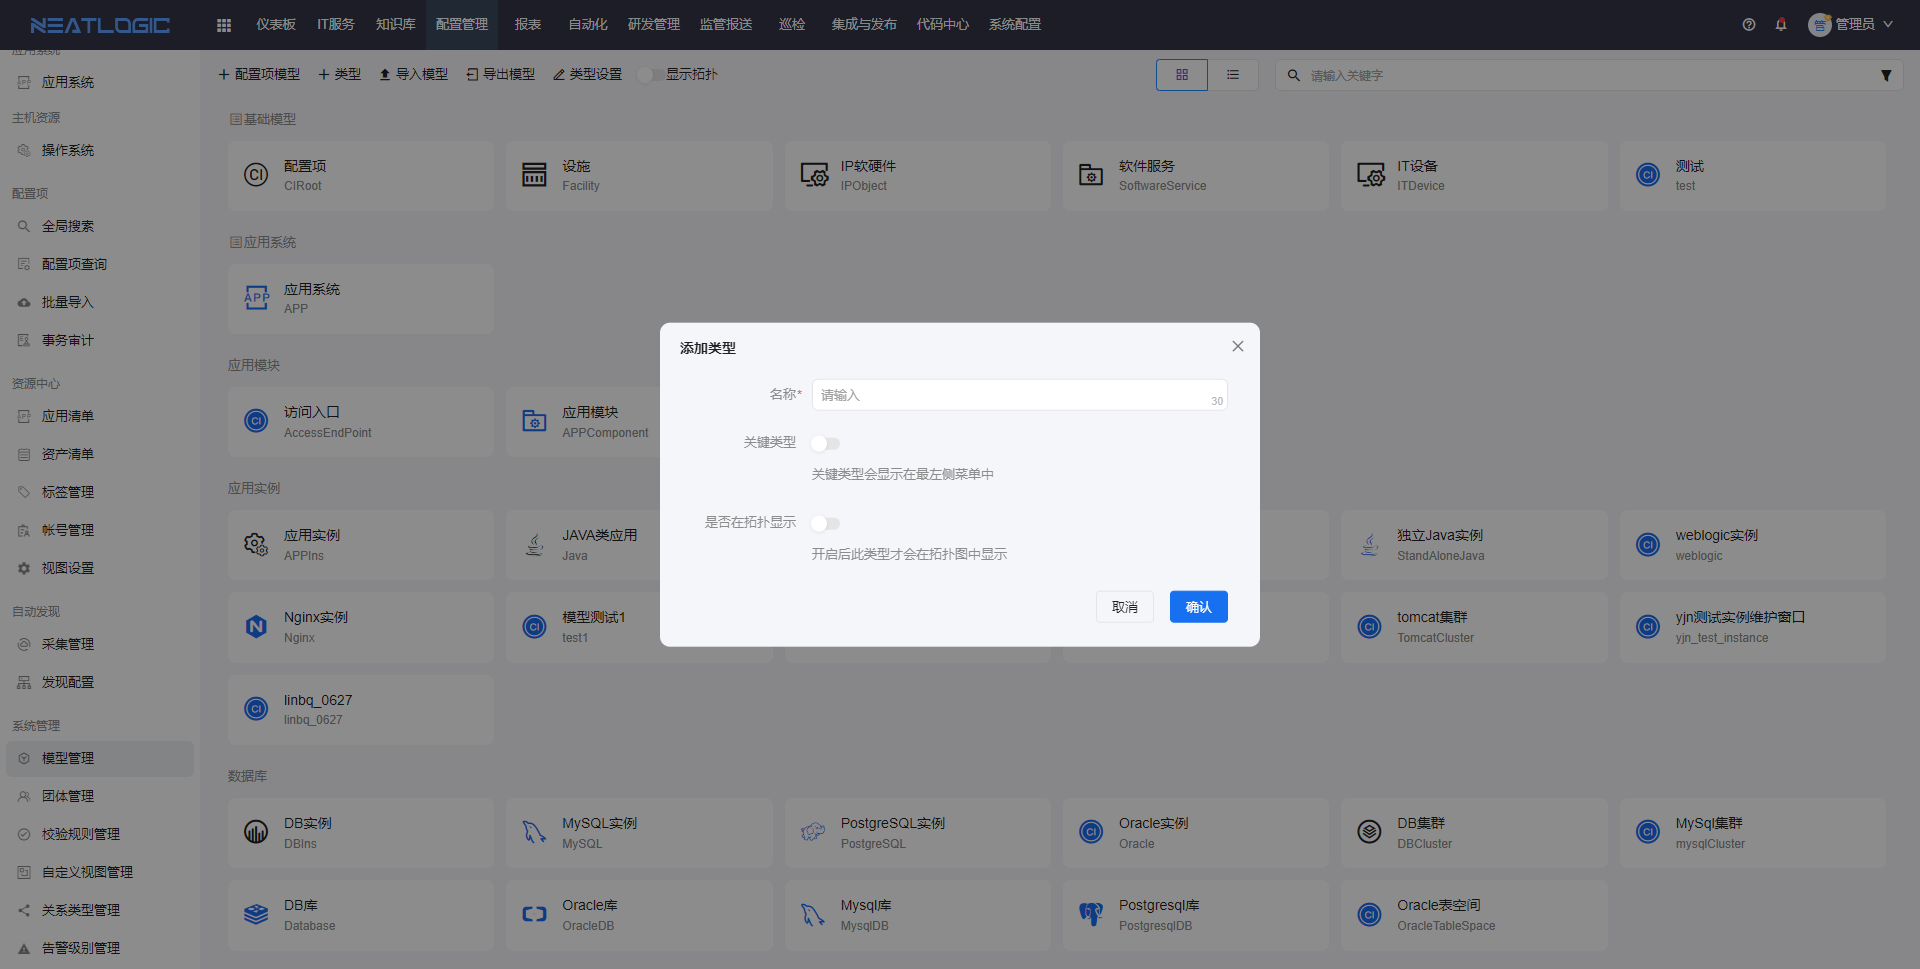
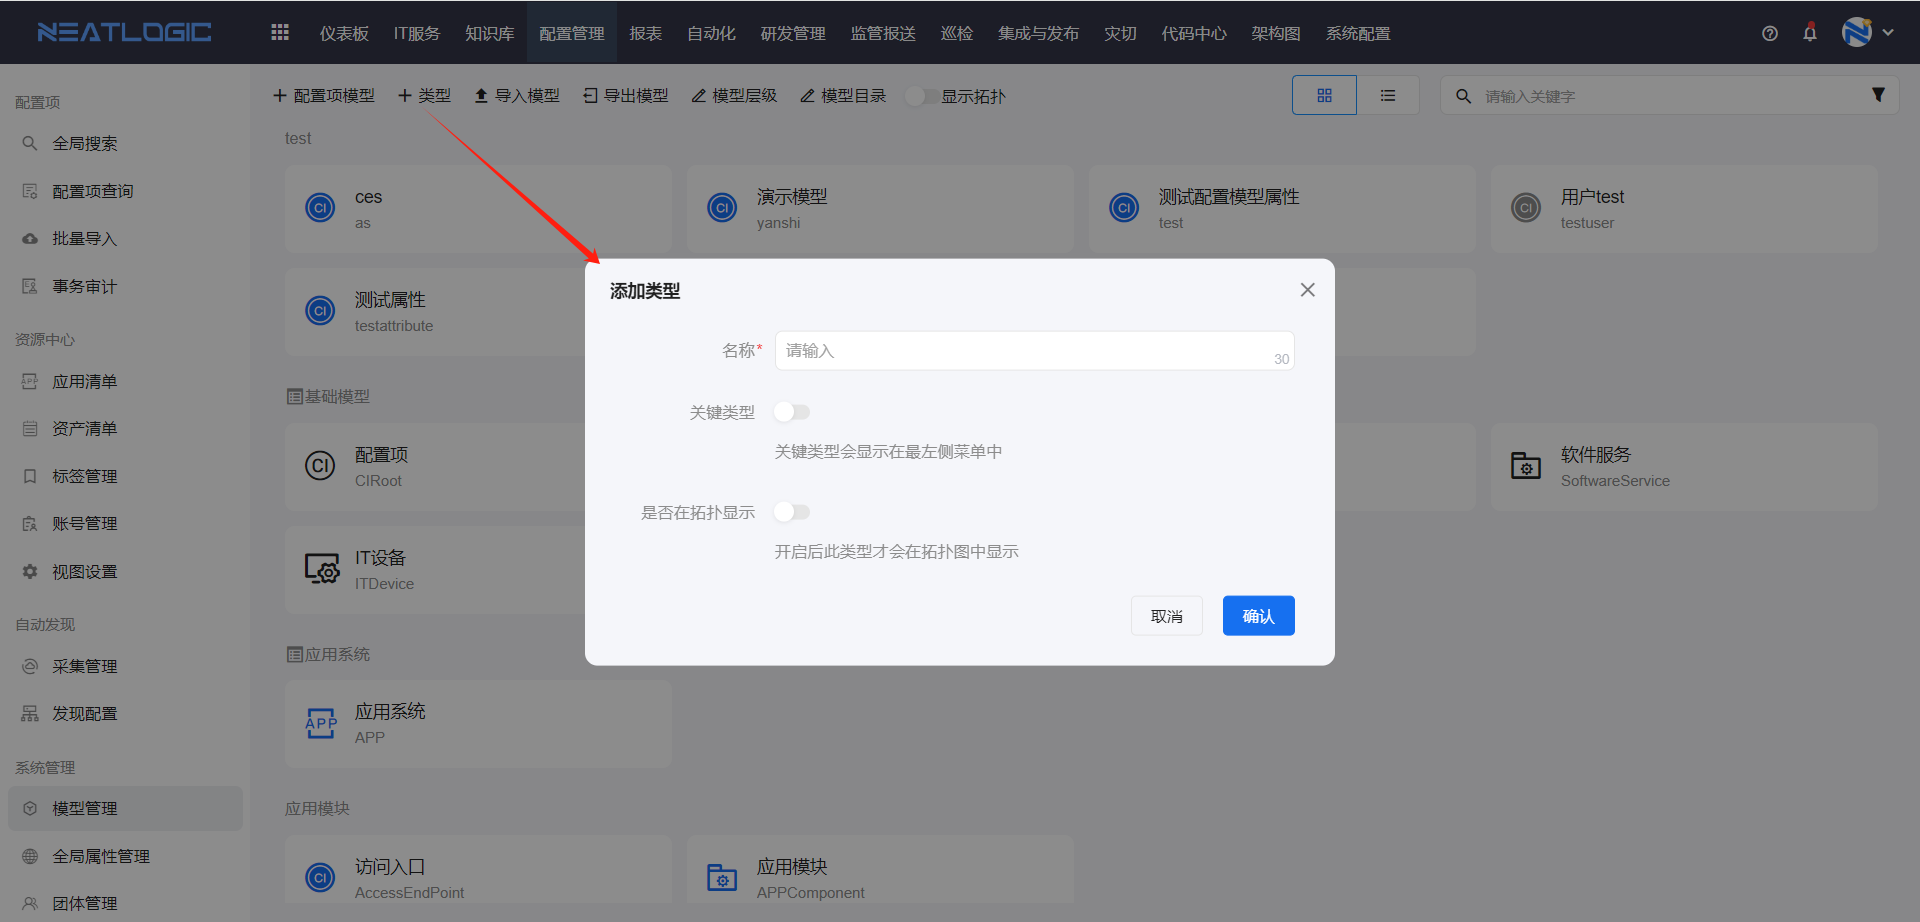
#[1050523619262464]在线帮助文档-更新CMDB变更需求 http://192.168.0.96:8090/demo/rdm.html#/story-detail/939050947543040/939050947543042/1050523619262464

diff --git a/src/main/resources/neatlogic/resources/documentonline/zh/3.配置管理/模型管理/模型管理.md b/src/main/resources/neatlogic/resources/documentonline/zh/3.配置管理/模型管理/模型管理.md
@@ -7,30 +7,44 @@
 * 普通模型：代表具体的实体，可以录入配置项，就是上面提到的java实例等模型。普通模型也能被继承。
 * 名称属性：在拓扑展示和关系展示时，作为配置项名称的属性值，名称属性只能选一个。
 * 唯一规则：选择一个或多个属性作为配置项的唯一性校验的规则。
-## 模型类型
+
+## 模型层级
 访问位置：配置管理>系统管理>模型管理
 <br>
-模型类型相关功能包括添加、类型设置和删除。引用模型类型的配置项模型为0时，模型类型隐藏。
+模型层级相关功能包括添加、管理模型层级。引用模型类型的配置项模型为0时，模型类型隐藏。
 <br>
 
 ### 添加类型
 ![](images/模型管理_类型_添加类型.png)
 
-### 类型设置
+### 管理模型层级
 设置类型名称、排序、关键类型、在拓扑中显示和删除类型。关联模型数量为零的类型才允许删除，且在模型列表中隐藏。
 ![](images/模型管理_类型_类型设置.gif)
 关键类型：重点显示在左侧导航目录中的类型，方便用户快速找到类型及其下的关键模型。当关键类型下无关键模型时，导航列表隐藏关键类型。
 ![](images/模型管理_类型_关键类型.png)
 在拓扑中显示：显示拓扑图时，显示类型中所有的配置项模型。
 ![](images/模型管理_类型_在拓扑中显示.png)
+模型编辑页和配置项列表页面的模型列表支持按模型层级展示，模型层级只有一级。
+![](images/模型管理_模型层级应用.png)
+
+## 模型目录
+模型编辑页和配置项列表页面的模型列表支持按模型目录展示，模型目录完全由管理员自定义，支持多层级的结构。
+![](images/模型管理_模型目录_应用.png)
+
+### 模型目录管理
+入口：模型管理-模型目录
+![](images/模型管理_模型目录管理.png)
+模型目录管理列表支持添加根目录、添加下级目录、编辑和删除目录，已被模型关联的目录禁止删除。
+![](images/模型管理_模型目录管理操作.png)
 
 ## 配置项模型
 配置项模型可手动添加，或通过导入添加。
 添加配置项模型主要包括两个步骤，首先是填写模型基础信息，然后是根据需求添加模型的属性和关系。
 
 ### 模型基本信息
-模型基本信息有类型、图标、唯一标识、名称、继承、抽象模型、虚拟模型等设置。
+模型基本信息有类型、模型目录、图标、唯一标识、名称、继承、抽象模型、虚拟模型等设置。
 ![](images/模型管理_模型_添加模型.gif)
+模型有数据时，继承下拉框隐藏，无法修改继承模型对象。
 
 ### 模型属性
 模型的属性类型总共有十种，分别是文本框、数字、文本域、枚举型、下拉框、日期、时间、日期时间、时间范围、密码、附件、表格、表达式和超链接。其中下拉框、表格和表达式比较特殊，存在引用关系。
@@ -50,7 +64,7 @@
 ![](images/模型管理_属性_校验.png)
 
 ### 全局属性
- 模型的全局属性数据来自[全局属性管理]()，模型中不能修改全局属性。如果全局属性中没有数据，所有模型都会隐藏全局属性页签。
+ 模型的全局属性数据来自[全局属性管理](../系统管理/全局属性管理.md)，模型中不能修改全局属性。如果全局属性中没有数据，所有模型都会隐藏全局属性页签。
  ![](images/全局属性.png)
  如果不想使用全局属性，可以在显示编辑设置中设置不显示和不允许编辑。
  ![](images/全局属性显示设置.png)

diff --git a/src/main/resources/neatlogic/resources/documentonline/zh/100.系统配置/用户和权限.md b/src/main/resources/neatlogic/resources/documentonline/zh/100.系统配置/用户和权限.md
@@ -22,6 +22,14 @@
 ![](README_IMAGES/user/token_update.gif)
 
 ## 角色管理
+角色的基本信息包括ID、角色名和环境。
+
+环境：登录认证的请求需要携带Key为Env的Header，如果Env Header值等于当前值或当前值为空则该角色生效，否则不生效。
+<br>
+应用场景：不同环境共用同一个数据库时，控制一个用户在不同环境中的权限差异。
+<br>
+例如：当前环境是UAT，配置了角色“ROLE-UAT”的环境是UAT，角色“ROLE-UAT”关联了用户“TEST-UAT”,用户“TEST-UAT”登录UAT环境时，这个角色传递给用户的权限可以生效。若用户“TEST-UAT”登录其他环境，这个角色传递给用户的权限不生效。
+
 角色管理页面支持添加、编辑、删除、添加角色成员、添加角色分组、授权操作。
 ![](README_IMAGES/user/role.png)
 角色添加关联分组时，可启用选中子节点，启用后可穿透该分组下的所有层级的分组。角色关联的所有分组的所有用户也会继承角色的权限。
